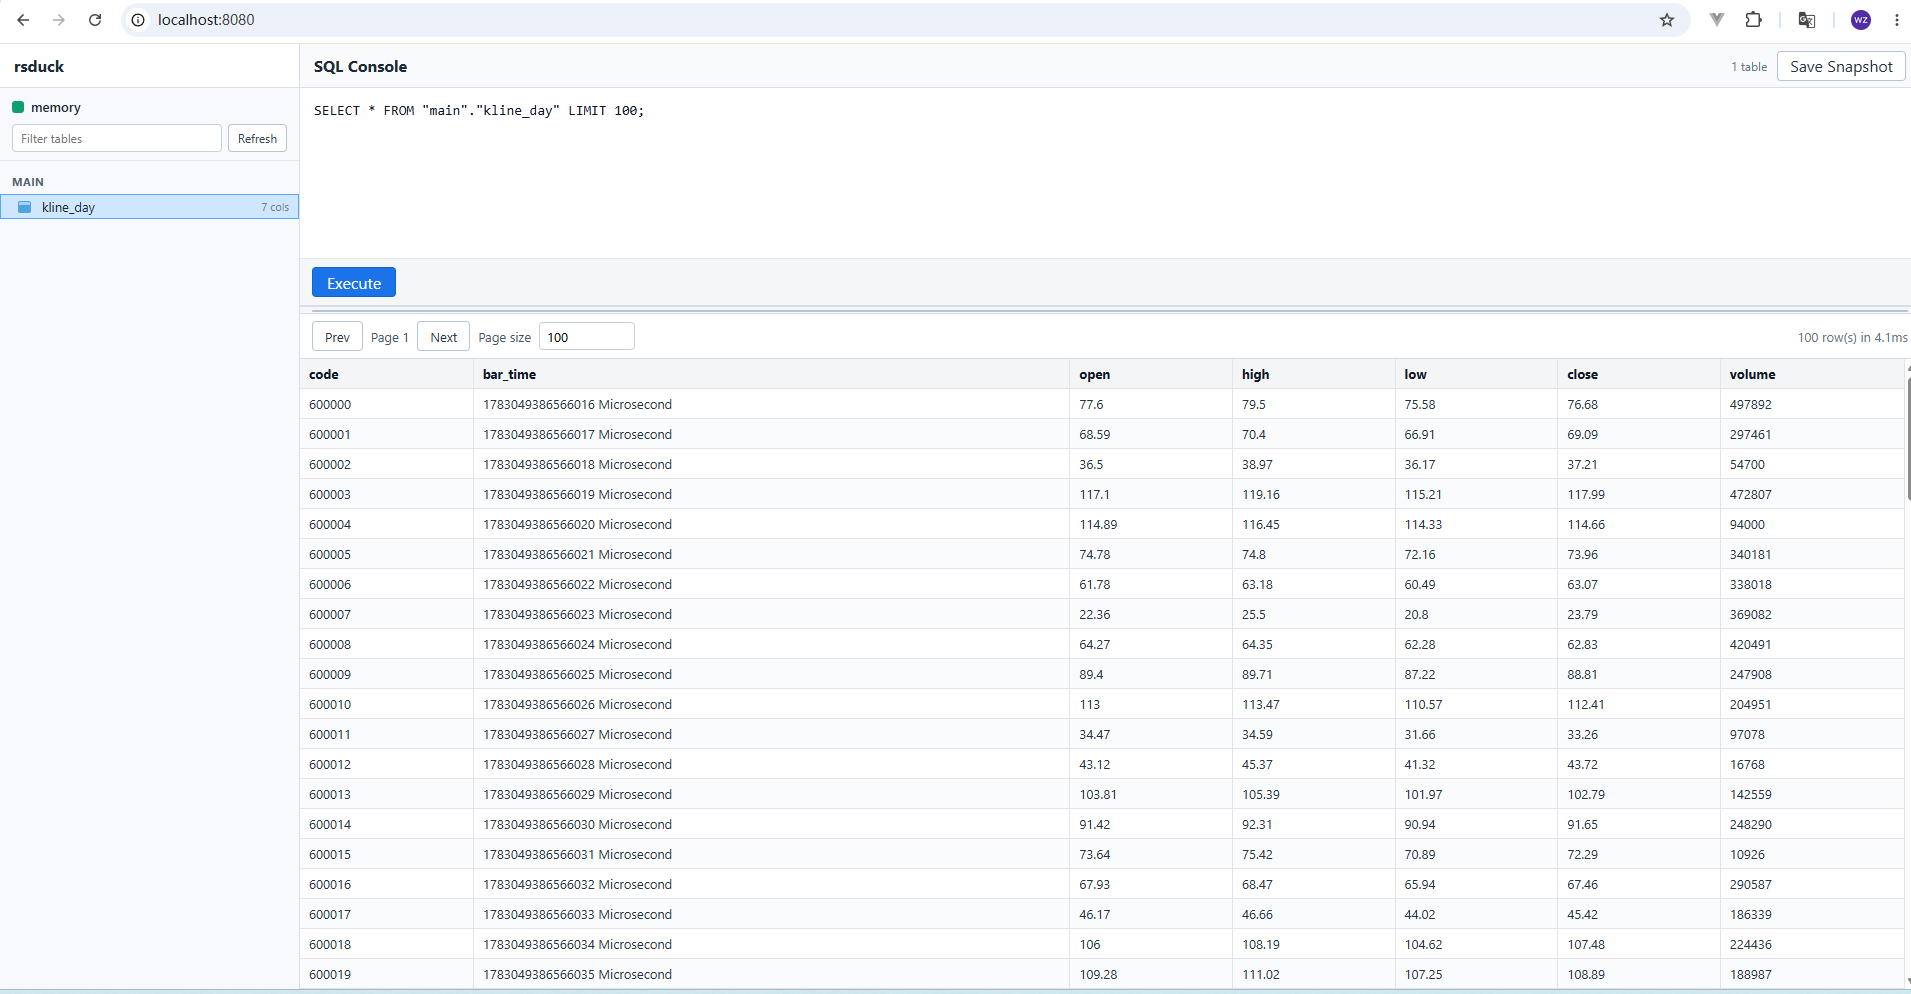
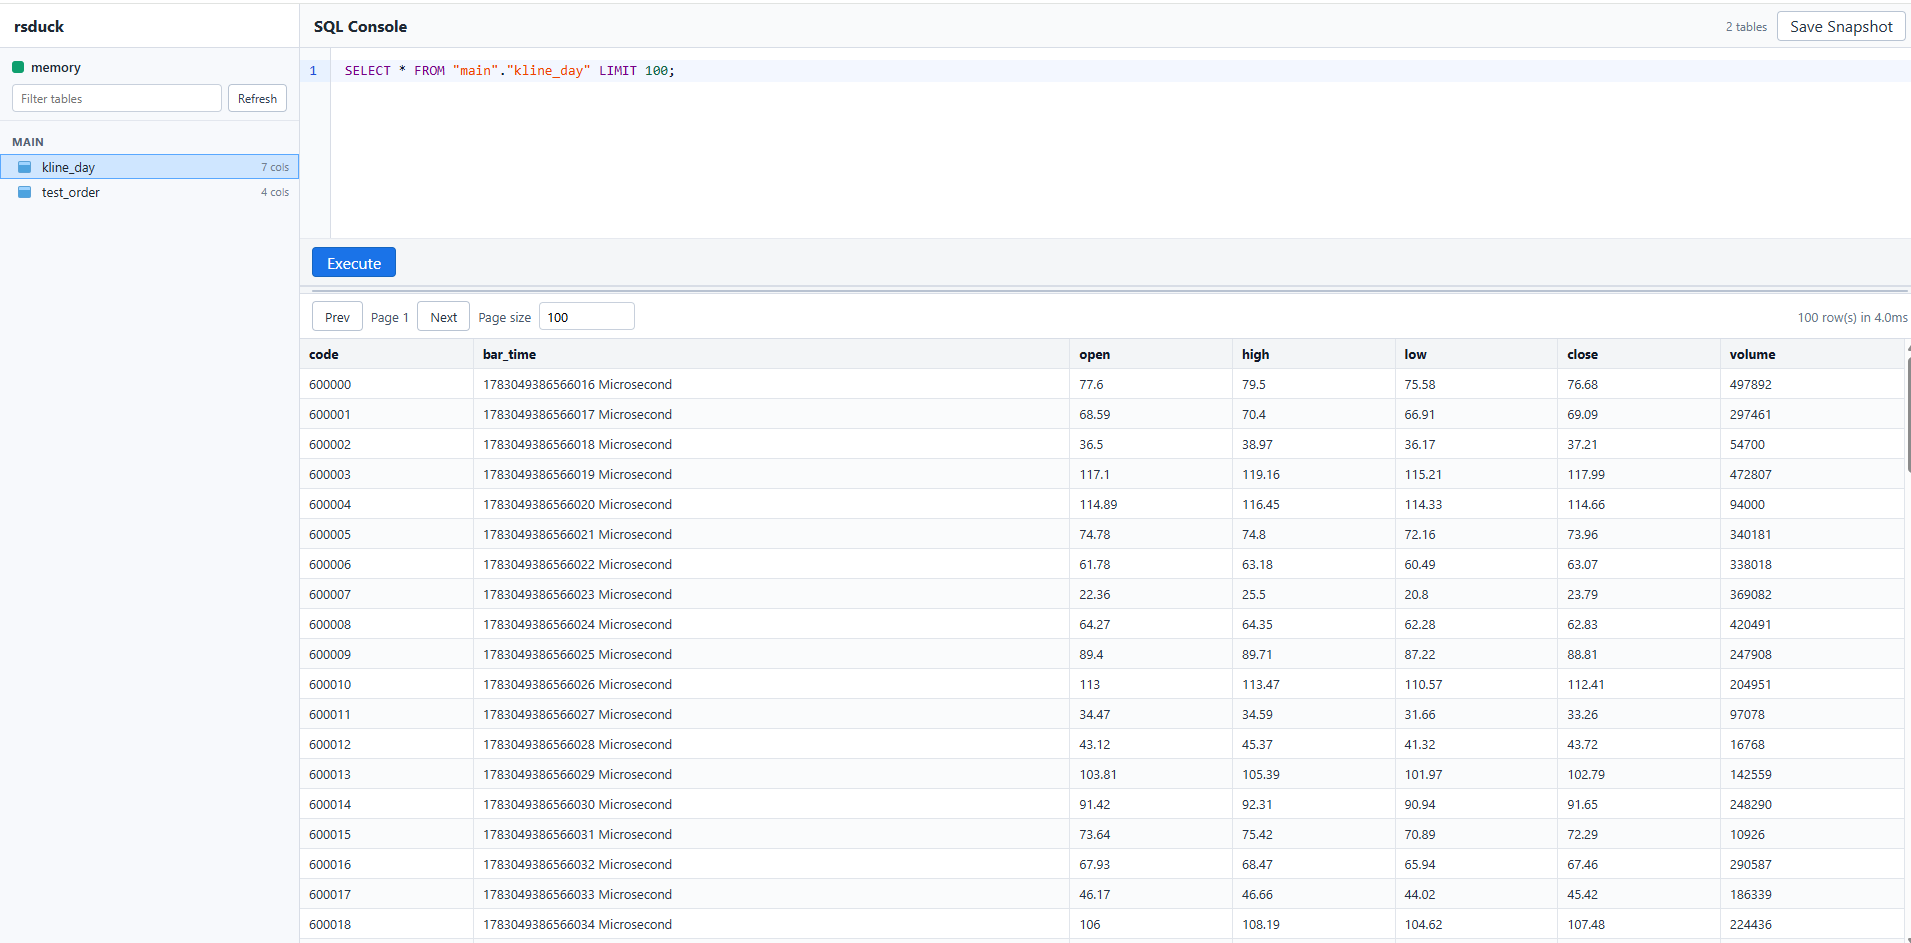
docs: clarify downloads and build paths

Changed region(s): [[0.0, 0.246, 1.0, 1.0], [0.0, 0.0, 0.3396, 0.246], [0.8953, 0.0, 1.0, 0.0923]]

diff --git a/README.md b/README.md
@@ -69,7 +69,7 @@ Release build:
 cargo build --release
 ```
 
-In this local workspace, build outputs are usually located at:
+Build outputs depend on Cargo's target directory. If `CARGO_TARGET_DIR` is set, artifacts are written under that directory; otherwise they are written under the repository's `target` directory. In this workspace, `CARGO_TARGET_DIR` points to `D:\cargo-target`, so the paths are usually:
 
 ```text
 D:\cargo-target\debug\rsduck.exe
@@ -81,6 +81,8 @@ D:\cargo-target\release\rsduck.exe
 ```powershell
 D:\cargo-target\release\rsduck.exe
 ```
+
+Adjust the executable path to your actual build output location.
 
 Default endpoints:
 
@@ -336,7 +338,7 @@ WHERE internal = false
 ORDER BY schema_name, table_name;
 ```
 
-## GitHub Actions
+## GitHub Actions And Downloads
 
 The GitHub Actions workflow is located at:
 
@@ -352,7 +354,13 @@ cargo test
 cargo build --release
 ```
 
-It uploads release artifacts for Windows, Linux, and macOS to the workflow run. When a `v*` tag is pushed, the workflow also publishes those files to GitHub Releases:
+Download released builds from:
+
+- Latest release: [github.com/dripai/rsduck/releases/latest](https://github.com/dripai/rsduck/releases/latest)
+- All releases: [github.com/dripai/rsduck/releases](https://github.com/dripai/rsduck/releases)
+- CI artifacts for each workflow run: [github.com/dripai/rsduck/actions/workflows/ci.yml](https://github.com/dripai/rsduck/actions/workflows/ci.yml)
+
+The workflow packages these files:
 
 ```text
 rsduck-windows-x64.zip
@@ -360,3 +368,5 @@ rsduck-linux-x64.tar.gz
 rsduck-macos-arm64.tar.gz
 rsduck-macos-x64.tar.gz
 ```
+
+Workflow run artifacts are temporary CI outputs. GitHub Release downloads are created when a `v*` tag is pushed, for example `v0.1.0`.

diff --git a/README.zh-CN.md b/README.zh-CN.md
@@ -69,7 +69,7 @@ cargo build
 cargo build --release
 ```
 
-当前环境的构建产物通常在：
+构建产物位置取决于 Cargo 的 target 目录。如果设置了 `CARGO_TARGET_DIR`，产物会写入该目录；否则会写入当前仓库的 `target` 目录。当前环境的 `CARGO_TARGET_DIR` 指向 `D:\cargo-target`，所以通常在：
 
 ```text
 D:\cargo-target\debug\rsduck.exe
@@ -81,6 +81,8 @@ D:\cargo-target\release\rsduck.exe
 ```powershell
 D:\cargo-target\release\rsduck.exe
 ```
+
+实际启动时请根据自己的构建产物存放路径调整可执行文件路径。
 
 默认端口：
 
@@ -336,7 +338,7 @@ WHERE internal = false
 ORDER BY schema_name, table_name;
 ```
 
-## 自动构建
+## 自动构建和下载地址
 
 GitHub Actions workflow 位于：
 
@@ -352,7 +354,13 @@ cargo test
 cargo build --release
 ```
 
-并把 Windows、Linux、macOS 构建产物上传到本次 workflow run。推送 `v*` tag 时，还会把这些文件发布到 GitHub Releases：
+编译后的版本可以从这里下载：
+
+- 最新 Release：[github.com/dripai/rsduck/releases/latest](https://github.com/dripai/rsduck/releases/latest)
+- 全部 Release：[github.com/dripai/rsduck/releases](https://github.com/dripai/rsduck/releases)
+- 每次 CI 运行的构建产物：[github.com/dripai/rsduck/actions/workflows/ci.yml](https://github.com/dripai/rsduck/actions/workflows/ci.yml)
+
+workflow 会打包这些文件：
 
 ```text
 rsduck-windows-x64.zip
@@ -360,3 +368,5 @@ rsduck-linux-x64.tar.gz
 rsduck-macos-arm64.tar.gz
 rsduck-macos-x64.tar.gz
 ```
+
+workflow run 里的 artifacts 是临时 CI 产物。GitHub Releases 里的下载文件会在推送 `v*` tag 时生成，例如 `v0.1.0`。